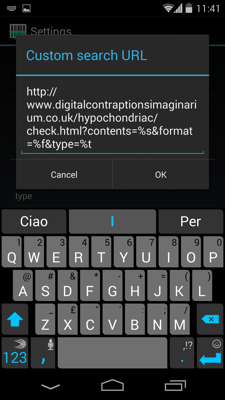
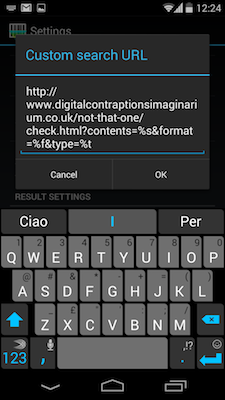
Aborted attempt to download json from separate website

diff --git a/index.html b/index.html
@@ -1,10 +1,10 @@
 <html>
 	<head>
-		<title>hypochondriac</title>
+		<title>not-that-one</title>
 	</head>
 	<body>
 
-		<p><h1>hypochondriac</h1></p>
+		<p><h1>not-that-one</h1></p>
 		<p>
 			Even without knowing everything about the packaged food we buy, there may often be one or few elements that may suggest we should rather buy something else. They are like 'tells' that suggests that one product is simply worse than another that does not have those same key characteristics.
 		</p>
@@ -16,7 +16,7 @@
 				<li>preference, e.g. organic food is <a href="http://www.telegraph.co.uk/health/healthnews/9517246/Organic-food-is-not-healthier.html">better</a> for me and my family, or, at least, is produced in a way that is more ethical and sustainable.
 			</ul>
 		<p>
-			The "Hypochondriac" app helps you spotting those tells without spending hours doing the shopping. Just point your mobile phone to the item's barcode - or shop online only on participating websites - and let Hypochondriac tell you if you should rather buy something else.
+			The "not-that-one" app helps you spotting those tells without spending hours doing the shopping. Just point your mobile phone to the item's barcode - or shop online only on participating websites - and let Hypochondriac tell you if you should rather buy something else.
 		</p>
 
 		<p><h2>It is already working!</h2></p>
@@ -24,7 +24,7 @@
 			If you have an Android phone you will be able to simulate how the app works before we develop it!
 		</p>
 		<p> 
-			Install the free <a href="https://play.google.com/store/apps/details?id=com.google.zxing.client.android">Barcode Scanner</a> app and configure it for performing "custom searches". Go to <i>Settings / Results settings</i> and set the <i>Custom search URL</i> to use <i>http://www.digitalcontraptionsimaginarium.co.uk/hypochondriac/check.html?contents=%s&format=%f&type=%t</i>
+			Install the free <a href="https://play.google.com/store/apps/details?id=com.google.zxing.client.android">Barcode Scanner</a> app and configure it for performing "custom searches". Go to <i>Settings / Results settings</i> and set the <i>Custom search URL</i> to use <i>http://www.digitalcontraptionsimaginarium.co.uk/not-that-one/check.html?contents=%s&format=%f&type=%t</i>
 		</p>
 		<table align="center"><tr><td>
 			<img src="images/scanner1.png">

diff --git a/check.js b/check.js
@@ -10,22 +10,29 @@ var qs = (function(a) {
     return b;
 })(window.location.search.substr(1).split('&'));
 
+var makeDatabaseUrl = function (githubUsername) {
+    return "./data";
+    // return "https://raw.github.com/" + githubUsername + "/not-that-one-db/master";
+}
+
 var readDatabase = function (callback) {
     var tells = [ ];
     database = { };
     // for the time being, the database is just made of the 'tells'
-	d3.json("./data/tells.json", function (tempTells) {
+    console.log("Trying to read " + makeDatabaseUrl(qs.githubUsername) + "/tells.json");
+	d3.json(makeDatabaseUrl(qs.githubUsername) + "/tells.json", function (tempTells) {
         tells = tempTells.reduce(function (memo, tell) {
             memo[tell.name] = tell;
             return memo;
         }, { });
         async.each(Object.keys(tells), function (tellName, callback) {
-            d3.json("./data/tells/" + tellName + ".json", function (tellData) {
+            d3.json(makeDatabaseUrl(qs.githubUsername) + "/tells/" + tellName + ".json", function (tellData) {
                 tells[tellName].products = tellData.products;
                 callback(!tellData.products);
             });
         }, function (err) {
             database = { tells: tells };
+            console.log(JSON.stringify(database));
             callback(err);
         });
     });
